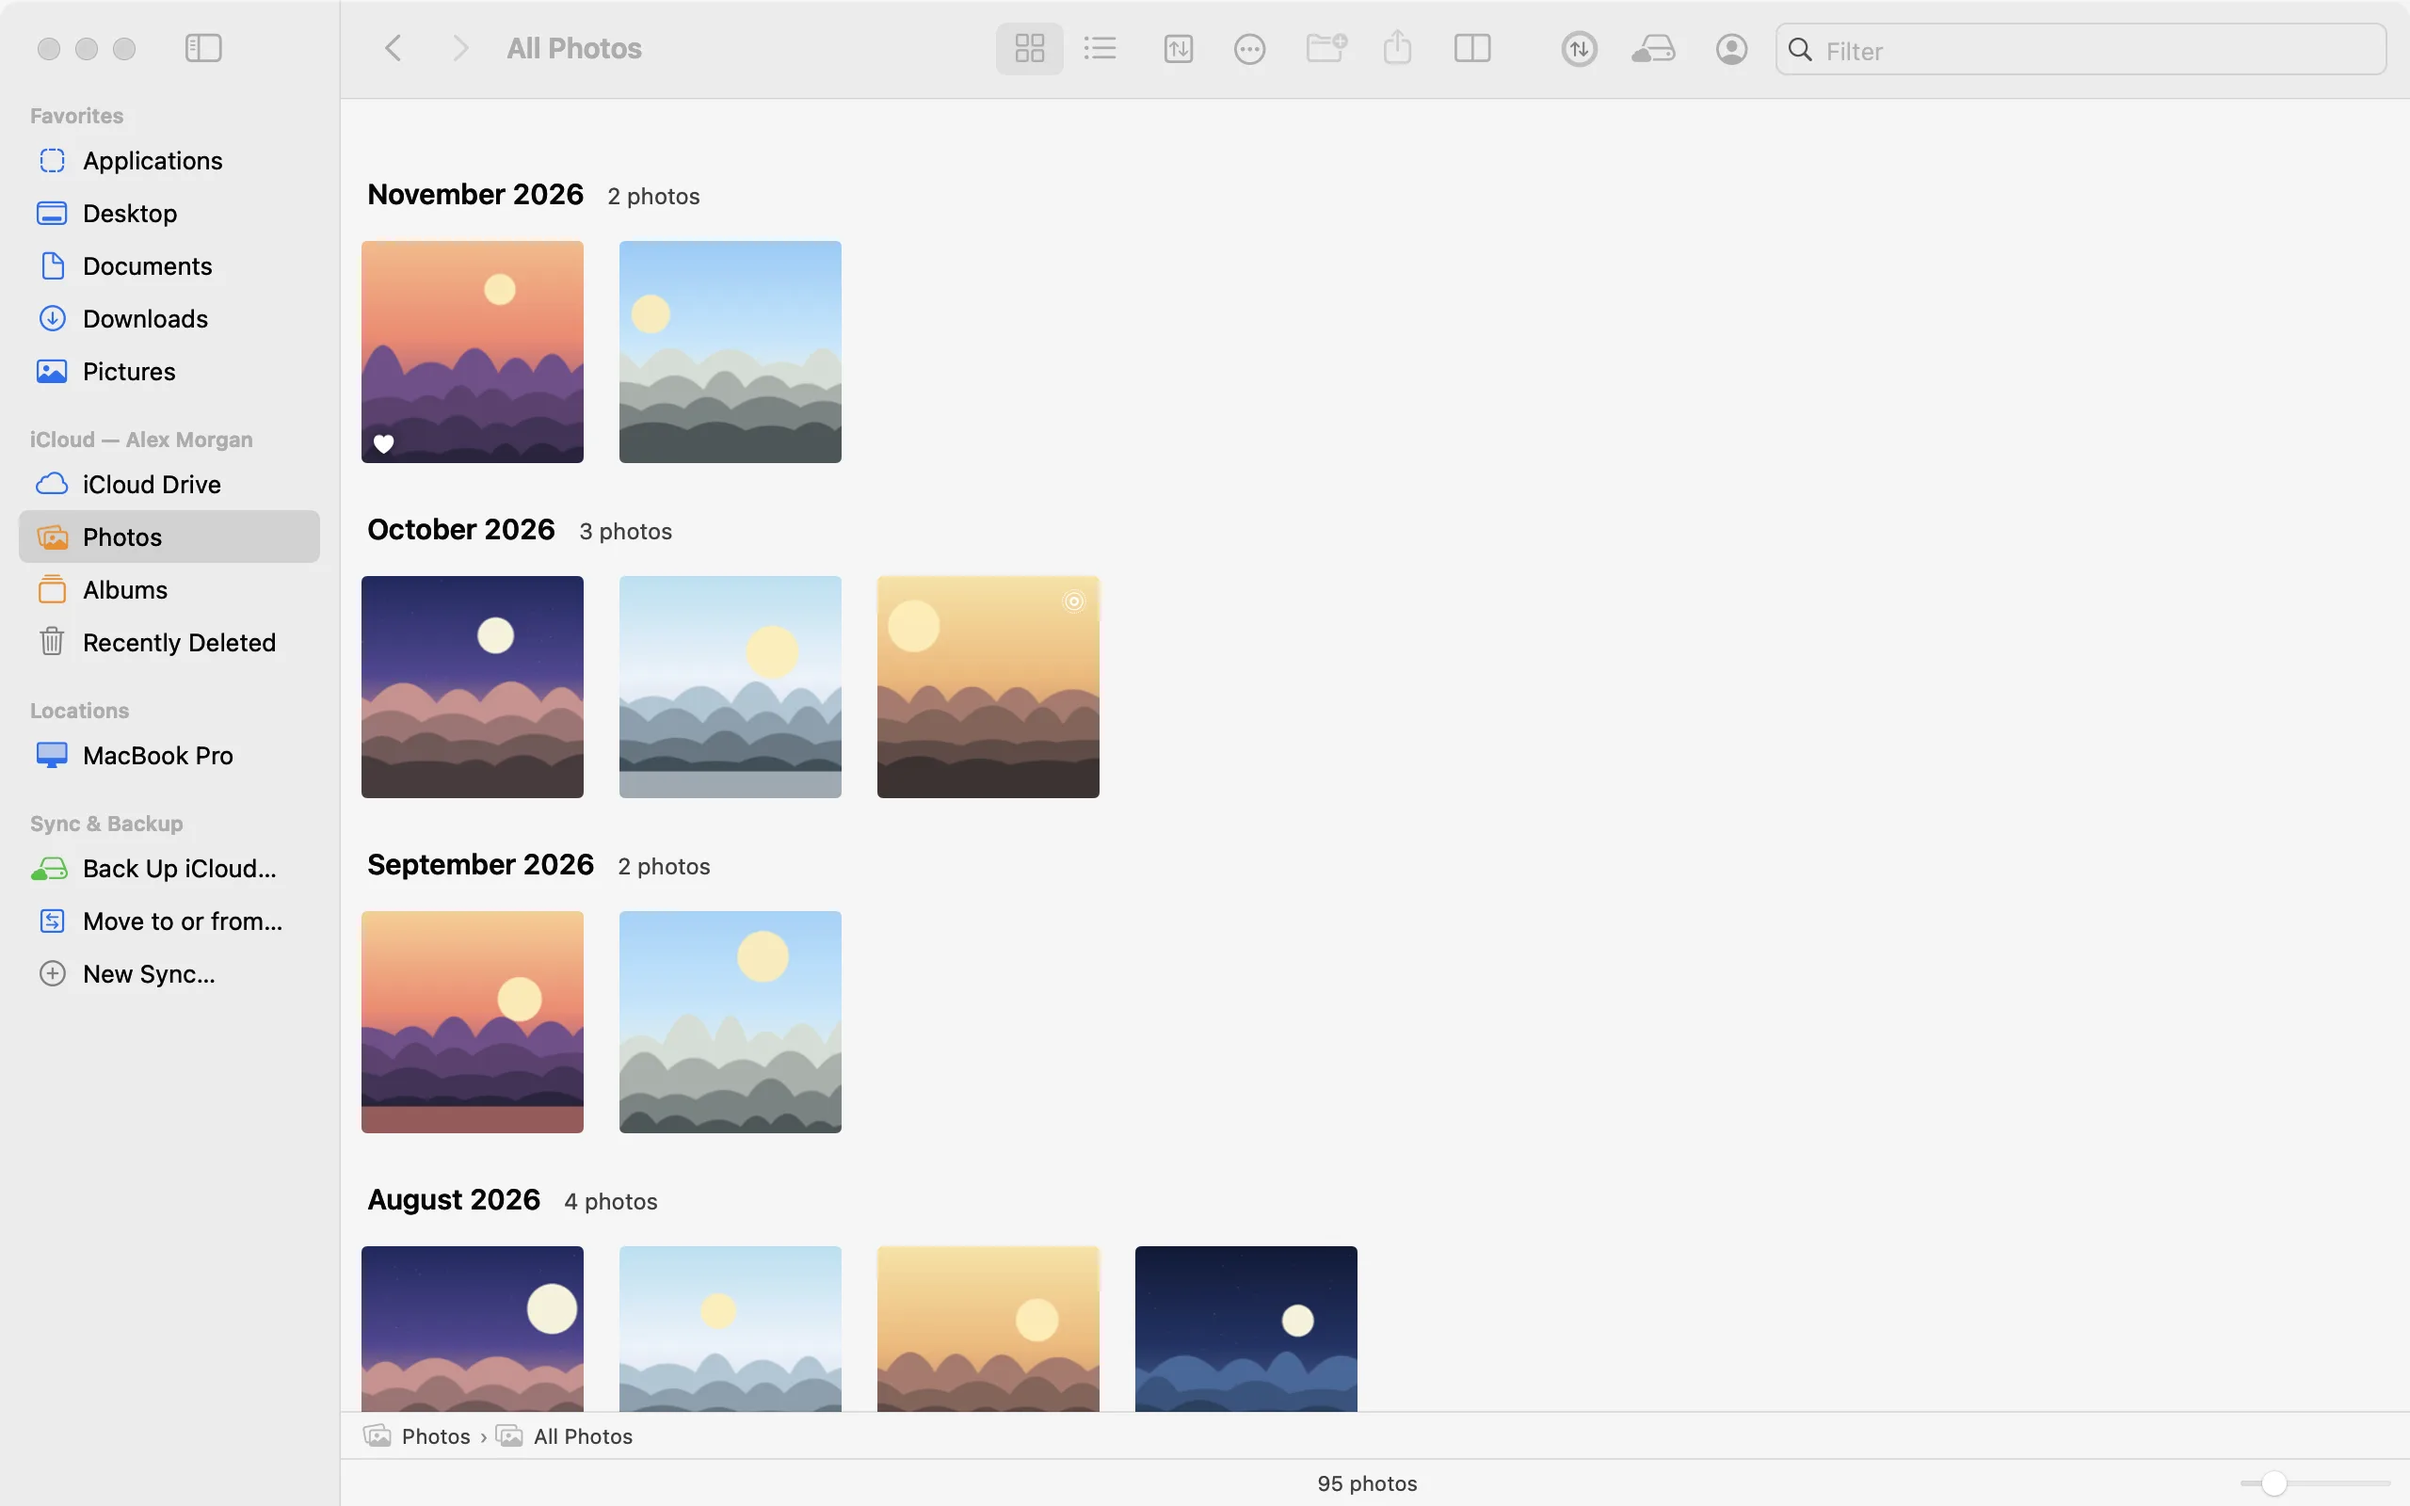
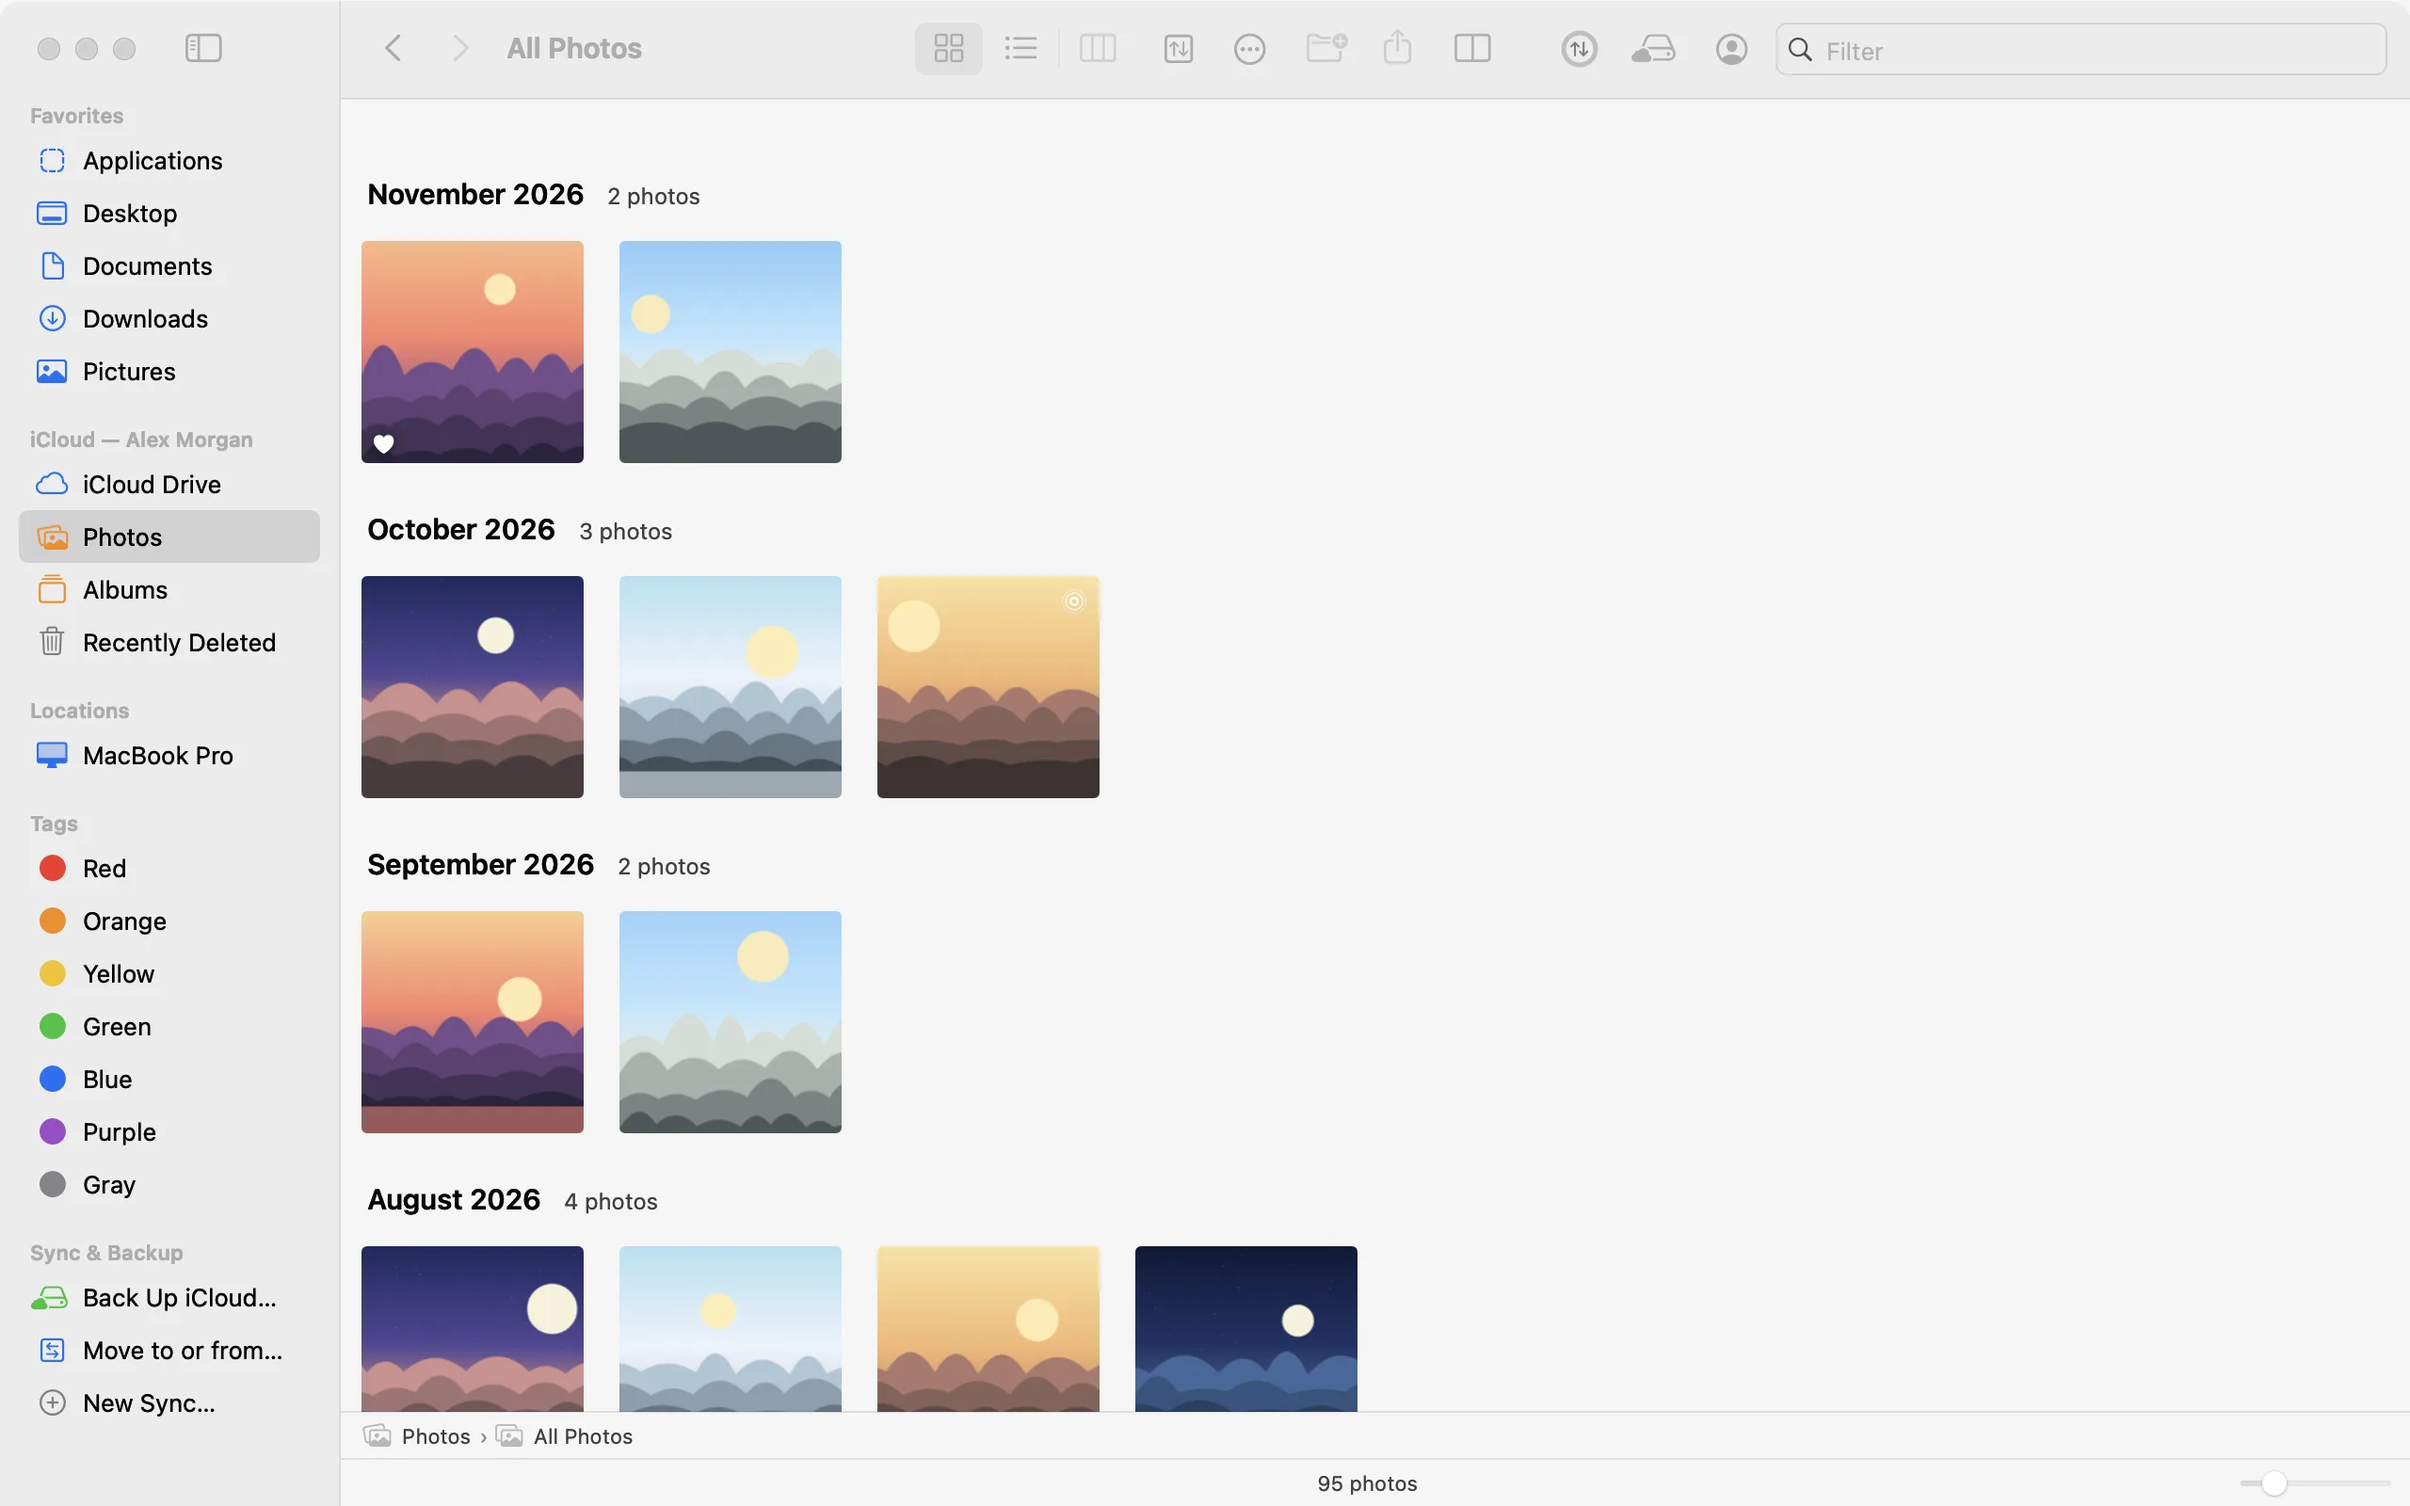
Preview pane: clear old detail rows, honour the setting over split-view autosave; website: column view and preview pane in the gallery, new shortcuts, refreshed screenshots (list view shows its first row)

Changed region(s): [[0.0, 0.5312, 0.0938, 0.9375]]

diff --git a/docs/index.html b/docs/index.html
@@ -227,7 +227,7 @@ footer p { margin: 6px 0; max-width: 640px; }
       <h2>Everything you expect from Finder.<br>Plus the parts iCloud never gave you.</h2>
     </div>
     <div class="grid">
-      <div class="card reveal"><div class="ico">🗂</div><h3>Finder-native browsing</h3><p>Icon and list views, tabs (<kbd>⌘T</kbd>), two panes side by side (<kbd>⌃⌘2</kbd>), Quick Look with Space, Get Info, path bar, sorting and filtering.</p></div>
+      <div class="card reveal"><div class="ico">🗂</div><h3>Finder-native browsing</h3><p>Icon, list and column views, a preview pane (<kbd>⇧⌘P</kbd>), tabs, two panes side by side, Quick Look, tags, search through subfolders, batch rename and folder sizes.</p></div>
       <div class="card reveal"><div class="ico o">🖐</div><h3>Drag anything anywhere</h3><p>Between iCloud Drive, Photos, your disks and Finder. Dragging out of iCloud downloads on drop; dragging in uploads or imports.</p></div>
       <div class="card reveal"><div class="ico y">🌄</div><h3>Photos, properly</h3><p>Your library grouped by month, albums and folders, Live Photos, favorites, Recently Deleted. Export originals with their capture dates.</p></div>
       <div class="card reveal"><div class="ico g">📦</div><h3>Managed transfers</h3><p>A real queue with speed and time left. Size checks before anything starts, automatic retries, and your Mac stays awake while files move.</p></div>
@@ -347,6 +347,7 @@ footer p { margin: 6px 0; max-width: 640px; }
       <div><span>Back / Forward</span><kbd>⌘[ ⌘]</kbd></div><div><span>New tab</span><kbd>⌘T</kbd></div><div><span>Two panes</span><kbd>⌃⌘2</kbd></div><div><span>Switch pane</span><kbd>Tab</kbd></div>
       <div><span>Move to Trash</span><kbd>⌘⌫</kbd></div><div><span>Get Info</span><kbd>⌘I</kbd></div><div><span>Icons / List</span><kbd>⌘1 ⌘2</kbd></div><div><span>New folder</span><kbd>⇧⌘N</kbd></div>
       <div><span>Upload here</span><kbd>⌘U</kbd></div><div><span>Copy To…</span><kbd>⌃⌘C</kbd></div><div><span>Back up iCloud</span><kbd>⇧⌘B</kbd></div><div><span>Refresh</span><kbd>⌘R</kbd></div>
+      <div><span>Columns</span><kbd>⌘3</kbd></div><div><span>Preview pane</span><kbd>⇧⌘P</kbd></div><div><span>New file</span><kbd>⌥⌘N</kbd></div><div><span>Make alias</span><kbd>⌃⌘A</kbd></div>
     </div>
   </div>
 </section>
@@ -401,6 +402,8 @@ footer p { margin: 6px 0; max-width: 640px; }
     ['photos', 'Photos', 'Your library, grouped by month', 'Thumbnails load as you scroll and are cached, so the second visit is instant.', ['Favorites, Live Photos and video badges', 'Square or true-aspect grid', 'Export originals with capture dates']],
     ['drive', 'iCloud Drive', 'Folders and real previews', 'Images, PDFs and documents show real thumbnails; opening them is instant once cached.', ['Upload by dragging from Finder', 'Rename, move, Recently Deleted', 'Copy To / Move To any iCloud folder']],
     ['list', 'List view', 'Sortable columns, like Finder', 'Name, date, size and kind — with iCloud status where it matters.', ['Click headers to sort', 'Type to select', 'Return to rename']],
+    ['columns', 'Columns', 'Column view, like Finder', 'Click through folders column by column; the last column previews the selected file.', ['Works on iCloud Drive, your Mac and albums', 'Drag in and out of any column', 'Right-click for every action']],
+    ['preview', 'Preview', 'A preview pane beside your files', 'See a large preview and the details of whatever you select — photos, PDFs, documents — without opening anything.', ['Shift-Command-P to show or hide', 'Photos use their preview, not the full original', 'Small iCloud Drive files are fetched once and cached']],
     ['dual', 'Two panes', 'Move things between two places at once', 'iCloud Drive on one side, Photos or your Mac on the other. Tab switches panes.', ['Drag across panes', 'Each pane has its own history', 'Works with tabs']],
     ['tabs', 'Tabs', 'Tabs, the way Finder does them', 'New tab with ⌘T; open any folder or album in a tab.', ['Follows your system tab preference', 'Per-tab history', 'Window state remembered']],
     ['info', 'Get Info', 'Everything about a file or photo', 'Dimensions, capture and added dates, Live Photo and RAW details, iCloud status.', ['Large preview', 'Floats beside your window', 'Updates with your selection']],

diff --git a/Sources/Cirrus/Support/Debug.swift b/Sources/Cirrus/Support/Debug.swift
@@ -85,7 +85,8 @@ enum Debug {
             if let l = location(arg) { pane?.navigate(to: l); await waitLoaded(pane); log("open \(arg): \(String(format: "%.1f", Date().timeIntervalSince(t0) - 0.7))s") } else { log("unknown location \(arg)") }
         case "view": pane?.setViewMode(arg == "list" ? .list : (arg == "columns" ? .columns : .icons))
         // Finder features
-        case "preview": b?.togglePreviewPane(nil)
+        case "preview":   // preview, preview:on, preview:off
+            if arg.isEmpty || (arg == "on") != Prefs.showPreviewPane { b?.togglePreviewPane(nil) }
         case "sizes": b?.toggleCalculateSizes(nil)
         case "newfile": pane?.newFile(nil); try? await Task.sleep(nanoseconds: 1_200_000_000); if let p = pane, let f = p.renameField { p.endRename(commit: false); _ = f }
         case "alias": pane?.makeAlias(nil)

diff --git a/Sources/Cirrus/Browser/PreviewPane.swift b/Sources/Cirrus/Browser/PreviewPane.swift
@@ -180,7 +180,12 @@ final class PreviewPaneController: NSViewController {
     }
 
     func setInfo(_ rows: [(String, String)]) {
-        while infoGrid.numberOfRows > 0 { infoGrid.removeRow(at: 0) }
+        // removeRow leaves the row's views behind, so take them out too (they'd draw over the new rows).
+        while infoGrid.numberOfRows > 0 {
+            let r = infoGrid.row(at: 0)
+            for c in 0..<r.numberOfCells { r.cell(at: c).contentView?.removeFromSuperview() }
+            infoGrid.removeRow(at: 0)
+        }
         for (k, v) in rows {
             let key = NSTextField(labelWithString: k)
             key.font = .systemFont(ofSize: 11); key.textColor = .secondaryLabelColor; key.alignment = .left

diff --git a/Sources/Cirrus/Browser/BrowserWindowController.swift b/Sources/Cirrus/Browser/BrowserWindowController.swift
@@ -102,6 +102,9 @@ final class BrowserWindowController: NSWindowController, NSToolbarDelegate, NSWi
         split.addSplitViewItem(previewItem)
         split.splitView.autosaveName = "CirrusSidebar"
         w.contentViewController = split
+        // The split view's autosave would otherwise decide whether the preview is open.
+        previewItem.isCollapsed = !Prefs.showPreviewPane
+        DispatchQueue.main.async { [weak self] in self?.previewItem.isCollapsed = !Prefs.showPreviewPane }
         w.setContentSize(NSSize(width: 1180, height: 740))
         w.setFrameAutosaveName("CirrusBrowser")
         if !w.setFrameUsingName("CirrusBrowser") { w.center() }

diff --git a/README.md b/README.md
@@ -11,7 +11,7 @@ A native app for browsing, moving, syncing and backing up iCloud Drive and iClou
 
 ## What it does
 
-- **Finder-style browsing.** Icon and list views, tabs, two panes side by side, Quick Look, Get Info, a path bar, sorting and type-to-select.
+- **Finder-style browsing.** Icon, list and column views, a preview pane, tabs, two panes side by side, Quick Look and Get Info. Also Finder tags, search through subfolders, batch rename, folder sizes, New File, Make Alias, Open in Terminal, and folders that spring open while you drag.
 - **Drag anything anywhere.** Move files between iCloud Drive, iCloud Photos, your disks, connected cameras and phones, and Finder.
 - **Photos, properly.** The library is grouped by month, with albums, Live Photos, favorites and Recently Deleted. Export originals with their capture dates.
 - **Managed transfers.** A real queue with speed and time left, size checks before anything starts, automatic retries, and no idle sleep while files move.
